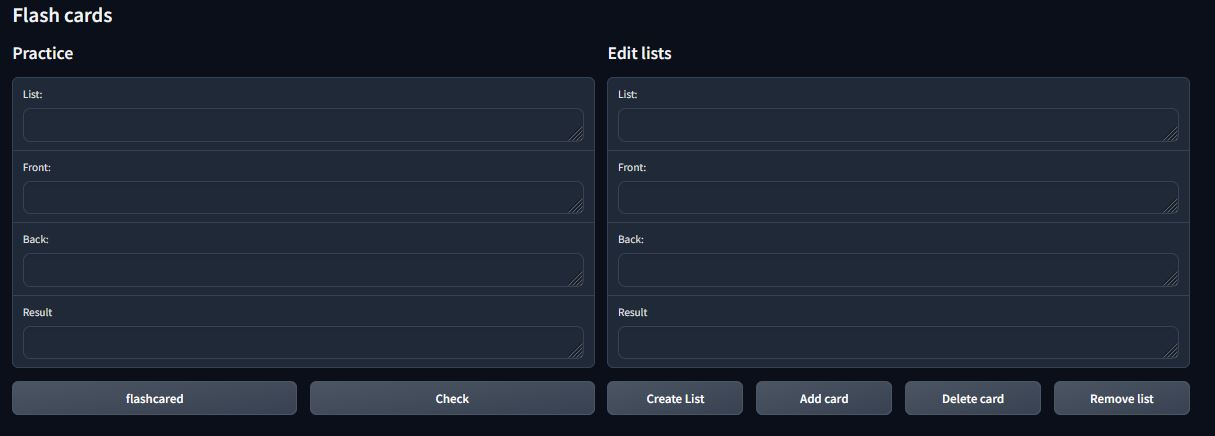
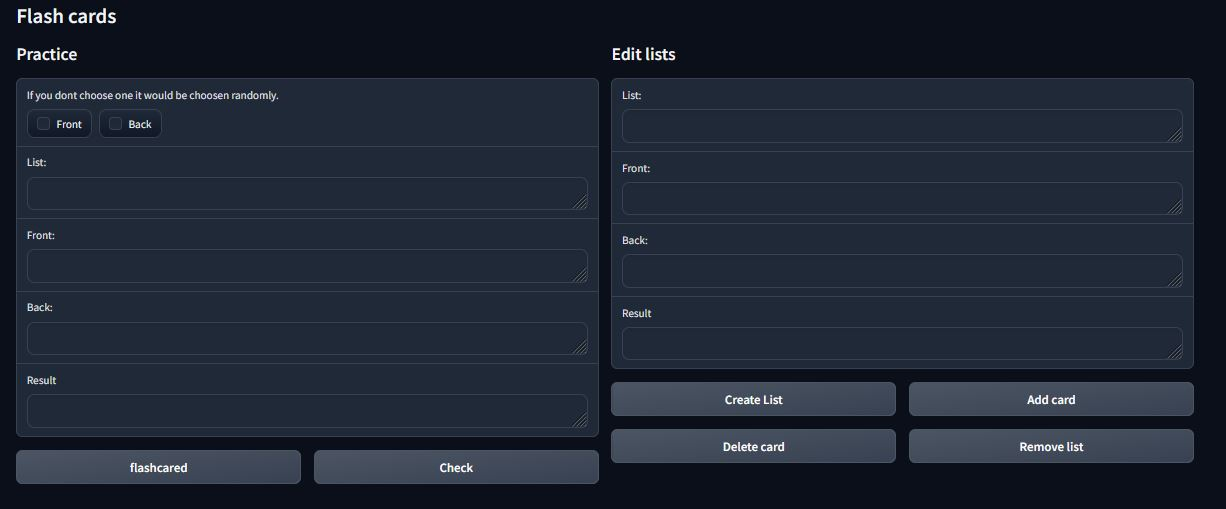
fine

diff --git a/main.py b/main.py
@@ -87,8 +87,7 @@ def remove(add_list):
     set_lists(lists)
     return('','','','Done!')
 
-def get_card(list, front, back):
-    print('entra')
+def get_card(choose, list, front, back):
     if (list==''):
         return(list, front, back,'Please insert the list where you want to add the flashcard')
 
@@ -101,9 +100,16 @@ def get_card(list, front, back):
     if list is None:
         return(add_list, add_front, add_back,"There isn't a list with that name")
     
-    n=random.randint(0,len(lists[l]['flashcards']))
-    print('arriva')
-    return(add_list, lists[l]['flashcards'][n][0],lists[l]['flashcards'][n][1],'')
+    n=random.randint(0,len(lists[l]['flashcards'])-1)
+    if len(choose)!=1:
+        c=random.choice(['Front','Back'])
+    else:
+        c=choose[0]
+
+    if c=='Front':
+         return(add_list, lists[l]['flashcards'][n][0],'','')
+    else:
+        return(add_list, '',lists[l]['flashcards'][n][1],'')
 
 
 def check_values(list, front, back):
@@ -148,6 +154,7 @@ if __name__=='__main__':
         with gr.Row():
             with gr.Column():
                 gr.Markdown("## Practice")
+                choose=gr.CheckboxGroup(label="If you dont choose one it would be choosen randomly.", choices=['Front','Back'])
                 list=gr.Textbox(label="List: ")
                 front=gr.Textbox(label="Front: ")
                 back=gr.Textbox(label="Back: ")
@@ -164,13 +171,14 @@ if __name__=='__main__':
                 with gr.Row():
                     create_list=gr.Button("Create List")
                     add_card=gr.Button("Add card")
+                with gr.Row():
                     delete_card=gr.Button("Delete card")
                     remove_list=gr.Button("Remove list")
         create_list.click(fn=append_list, inputs=[add_list], outputs=[add_list, add_front, add_back, add_result])   
         add_card.click(fn=append_card, inputs=[add_list, add_front, add_back], outputs=[add_list, add_front, add_back, add_result])
         delete_card.click(fn=delete, inputs=[add_list, add_front, add_back], outputs=[add_list, add_front, add_back, add_result])
         remove_list.click(fn=remove, inputs=[add_list], outputs=[add_list, add_front, add_back, add_result])
-        random_card.click(fn=get_card, inputs=[list, front, back], outputs=[list, front, back,result])
+        random_card.click(fn=get_card, inputs=[choose, list, front, back], outputs=[list, front, back,result])
         check.click(fn=check_values, inputs=[list, front, back], outputs=[list, front, back,result])
 
 
